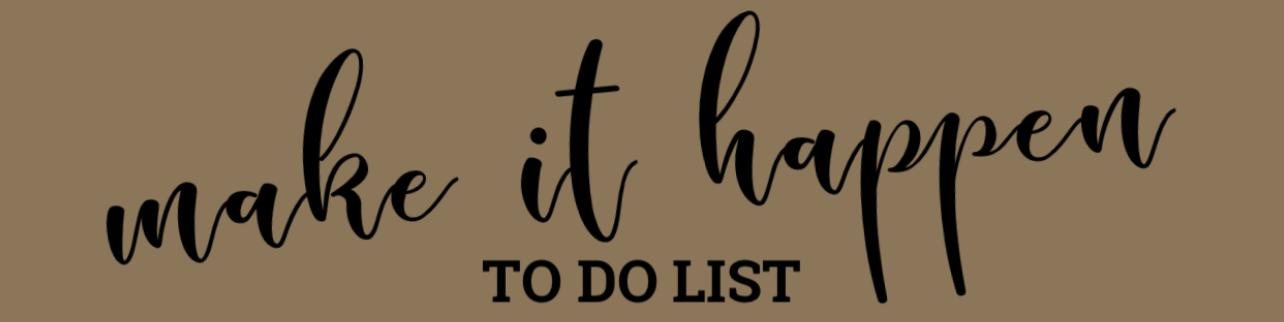
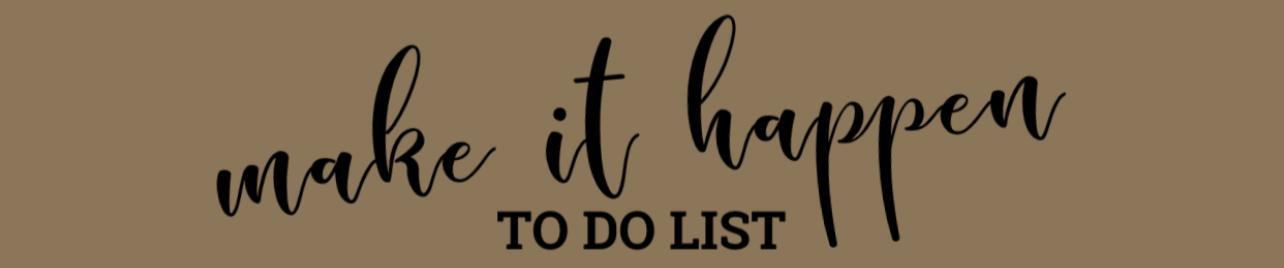
added search button
added search button, input and some style

Changed region(s): [[0.3738, 0.0299, 0.9346, 0.9552], [0.0623, 0.1194, 0.4984, 0.8358]]

diff --git a/src/main.js b/src/main.js
@@ -14,9 +14,6 @@ async function loadTasks() {
   // first - get the data from the json.bin
   appData = await getPersistent(MY_BIN_ID);
 
-  console.log("data:");
-  console.log(appData);
-
   if (!appData.idCounter) {
     appData.idCounter = 0;
   }
@@ -24,7 +21,6 @@ async function loadTasks() {
   let taskDiv = document.getElementById("tasks-container");
   let taskDoneDiv = document.getElementById("tasks-done-container");
   // second - create the todo list
-  console.log(appData["my-todo"]);
   appData["my-todo"].forEach(async (taskObject) => {
     let div = await createTaskDomElements(taskObject, false);
     taskDiv.appendChild(div);
@@ -47,7 +43,6 @@ async function loadTasks() {
       imageEle.style.position = "absolute";
       imageEle.style.zIndex = 1000;
       imageEle.style.top = appData.dragItems[imageId].top;
-      console.log(appData.dragItems[imageId].top);
       imageEle.style.left = appData.dragItems[imageId].left;
     }
   }
@@ -82,7 +77,6 @@ function startDrag(event) {
 
   // drop the image, remove unneeded handlers
   dragImage.onmouseup = function () {
-    console.log("hi");
     document.removeEventListener("mousemove", onMouseMove);
     dragImage.onmouseup = null;
 
@@ -92,7 +86,6 @@ function startDrag(event) {
       left: dragImage.style.left,
       top: dragImage.style.top,
     };
-    console.log(appData.dragItems[dragImage.id]);
     setPersistent(MY_BIN_ID, appData);
   };
 }
@@ -354,10 +347,7 @@ function getEditTaskButton(todoDiv, textDiv) {
     } else {
       alert("New task is too short!");
     }
-    console.log(e.target.parentNode);
-    console.log(e.target.parentNode.getElementsByTagName("input"));
     let taskId = e.target.parentNode.getElementsByTagName("input")[0].id;
-    console.log("taskId:" + taskId);
     let taskObject = appData["my-todo"].find((task) => task.id == taskId);
     if (taskObject) {
       taskObject.text = newText;
@@ -371,7 +361,6 @@ function getEditTaskButton(todoDiv, textDiv) {
 
 //function for counter
 function counterUpdated() {
-  console.log(appData.done);
   if (appData["my-todo"].length >= 1) {
     document.getElementById("empty-list-span").style.display = "none";
   } else if (appData["my-todo"].length === 0) {
@@ -529,27 +518,59 @@ document.getElementById("hide-list").addEventListener("click", (e) => {
   }
 });
 
-//carousel settings
-let transX = 0;
-const increment = 400;
-let buttonRight = document.getElementById("right");
-let buttonLeft = document.getElementById("left");
-let imgs = document.getElementById("images");
-imgs.style.transform = "translateX(-25px)";
-let allImg = document.querySelectorAll("img");
+//search button setting
+document.addEventListener("click", searchTask);
+//function to search text in a task
+function searchTask(event) {
+  const target = event.target;
+  if (target.id !== "search-button") return;
 
-buttonRight.addEventListener("click", (e) => {
-  transX = transX - increment;
-  if (!(transX >= -1200)) {
-    transX = -1200;
-  }
-  imgs.style.transform = "translateX(" + transX + "px)";
-});
+  const searchInput = document.querySelector("#search-input");
+  highlight(searchInput.value.toLowerCase());
 
-buttonLeft.addEventListener("click", (e) => {
-  transX = transX + increment;
-  if (!(transX <= -25)) {
-    transX = -25;
+  searchInput.value = "";
+  searchInput.focus();
+}
+
+// //function to highlight the word search
+function highlight(text) {
+  const taskTexts = document.querySelectorAll(".todo-text");
+
+  for (let taskText of taskTexts) {
+    const taskInnerHTML = taskText.textContent;
+
+    if (text === "") {
+      taskText.innerHTML = taskText.textContent;
+      continue;
+    }
+
+    //get all the cases of a search text in a task
+    let textIndexes = [];
+    let index = taskInnerHTML.indexOf(text, 0);
+
+    while (index >= 0) {
+      textIndexes.push(index);
+      index = taskInnerHTML.indexOf(text, index + 1);
+    }
+
+    const numberOfCases = textIndexes.length;
+
+    if (numberOfCases === 0) {
+      taskText.innerHTML = taskText.textContent;
+      continue;
+    }
+
+    let newInnerHTML = `${taskInnerHTML.substring(0, textIndexes[0])}`;
+
+    for (let i = 0; i < numberOfCases; i++) {
+      newInnerHTML =
+        newInnerHTML +
+        `<span class='highlight'>${text}</span>${taskInnerHTML.substring(
+          textIndexes[i] + text.length,
+          textIndexes[i + 1]
+        )}`;
+    }
+
+    taskText.innerHTML = newInnerHTML;
   }
-  imgs.style.transform = "translateX(" + transX + "px)";
-});
+}

diff --git a/src/index.html b/src/index.html
@@ -31,12 +31,21 @@
       </select>
       <button id="add-button" class="formStyle" onclick="addTask()">Add</button>
     </form>
-    <!-- <input type="text" id="search-input" placeholder="Search a task..." />
-    <button id="search-button">search</button> -->
-    <div id="buttons">
-      <button id="sort-button" class="buttons">Sort By:</button>
-      <button id="dark-mode" class="buttons">Dark Mode</button>
-    </div>
+    <section class="second-part">
+      <div class="serach">
+        <input
+          type="text"
+          id="search-input"
+          class="search-input"
+          placeholder="Search a task..."
+        />
+        <button id="search-button" class="buttons">Search 🔎</button>
+      </div>
+      <div id="buttons">
+        <button id="sort-button" class="buttons">Sort By:</button>
+        <button id="dark-mode" class="buttons">Dark Mode</button>
+      </div>
+    </section>
     <div class="to-do-header">
       <section class="header-uncompleted">
         <h3><span id="counter"></span> Uncompleted :</h3>
@@ -53,7 +62,7 @@
             >Stop being lazy! Finish a task 😎😎</span
           >
         </div>
-        <button id="clear" class="buttons">Clear All</button>
+        <button id="clear" class="buttons">Clear All ⌦</button>
       </section>
     </div>
     <label for="notes" class="labelComments"> Notes :</label><br /><br />
@@ -65,7 +74,7 @@
       placeholder="Anything you wanna remember?"
       onmouseout="saveNote()"
     ></textarea>
-    <!-- <nav class="floating-menu">
+    <nav class="floating-menu">
       <h3>Get in touch!</h3>
       <link
         rel="stylesheet"
@@ -91,14 +100,14 @@
         target="_blank"
         class="fa fa-instagram"
       ></a>
-    </nav> -->
+    </nav>
     <p class="main-paragraph">★ Style your list with the items below ★</p>
     <p class="second-paragraph">
       just drag and drop them whenever you want,<br />
       You can return them to the box whenever you want!
     </p>
     <div class="carousel">
-      <button class="button" id="right">⇨</button>
+      <!-- <button class="button" id="right">⇨</button> -->
       <div id="images" class="imgs">
         <ul class="img-list">
           <li>
@@ -194,7 +203,7 @@
           </li>
         </ul>
       </div>
-      <button class="button" id="left">⇦</button>
+      <!-- <button class="button" id="left">⇦</button> -->
     </div>
     <script src="./main.js"></script>
   </body>

diff --git a/src/darkmode.css b/src/darkmode.css
@@ -28,7 +28,7 @@ h3 {
   padding-right: 50px;
   padding-bottom: 20px;
   font-size: 25px;
-  background-color: rgb(19, 42, 19);
+  background-color: rgb(98, 98, 98);
 }
 .header-completed {
   border: 5px solid;
@@ -38,7 +38,7 @@ h3 {
   padding-right: 50px;
   padding-bottom: 20px;
   font-size: 25px;
-  background-color: rgb(19, 42, 19);
+  background-color: rgb(98, 98, 98);
 }
 .todo-priority {
   padding-right: 2px;
@@ -114,7 +114,6 @@ form {
   display: flex;
   flex-direction: column;
   align-items: center;
-  margin-left: 500px;
 }
 
 .buttons {
@@ -172,7 +171,7 @@ form {
   background-size: cover;
 }
 #hide-list:hover {
-  color: rgb(83, 83, 83);
+  color: black;
   background-color: white;
 }
 .checkbox {
@@ -263,7 +262,7 @@ form {
   padding: 30px 0px;
   border: 3px solid black;
   border-radius: 20px;
-  background-color: rgb(151, 150, 150);
+  background-color: rgb(19, 42, 19);
 }
 .img-option {
   width: 130px;
@@ -273,4 +272,37 @@ form {
 .img7 {
   border-radius: 50%;
   height: 40px;
+}
+.search-input {
+  height: 50px;
+  width: 100%;
+  font-size: 20px;
+  border-radius: 10px;
+}
+.search {
+  margin-right: 400px;
+  margin-top: 30px;
+}
+.second-part {
+  display: flex;
+  flex-direction: row;
+  justify-content: center;
+}
+.search-input {
+  height: 50px;
+  width: 100%;
+  font-size: 20px;
+  border-radius: 10px;
+}
+.search {
+  margin-right: 400px;
+  margin-top: 30px;
+}
+.second-part {
+  display: flex;
+  flex-direction: row;
+  justify-content: center;
+}
+.highlight {
+  background-color: white;
 }

diff --git a/src/style.css b/src/style.css
@@ -7,7 +7,6 @@
   background-image: url(./header.jpeg);
   background-repeat: no-repeat;
   background-size: cover;
-  width: 1300px;
   height: 350px;
 }
 h3 {
@@ -114,7 +113,6 @@ form {
   display: flex;
   flex-direction: column;
   align-items: center;
-  margin-left: 500px;
 }
 .buttons {
   width: 170px;
@@ -171,7 +169,7 @@ form {
   background-size: cover;
 }
 #hide-list:hover {
-  color: black;
+  color: rgb(85, 38, 38);
   background-color: white;
 }
 .checkbox {
@@ -209,7 +207,7 @@ form {
 
 .floating-menu {
   font-family: monospace;
-  background: rgb(80, 44, 44);
+  background: rgb(209, 189, 151);
   padding: 5px;
   padding-right: 13px;
   width: 80px;
@@ -291,4 +289,26 @@ form {
   background-color: #3b5998;
   height: 300px;
   width: 300px;
+}
+.search-input {
+  height: 50px;
+  width: 100%;
+  font-size: 20px;
+  border-radius: 10px;
+}
+.serach {
+  margin-right: 400px;
+  margin-top: 30px;
+}
+.second-part {
+  display: flex;
+  flex-direction: row;
+  justify-content: center;
+}
+.highlight {
+  background-color: rgb(100, 92, 92);
+}
+#search-button {
+  transition-duration: 3s;
+  cursor: grab;
 }

diff --git a/src/utils.js b/src/utils.js
@@ -12,7 +12,6 @@ async function getPersistent(key) {
   //console.log(response);
   //console.log(response.body);
   const result = await response.json();
-  console.log(result.record);
   return result.record;
 }
 
@@ -29,6 +28,3 @@ async function setPersistent(key, tasks) {
   });
   return true;
 }
-// 60183cc6abdf9c556796446d
-//6015914f13b20d48e8bf1b78
-//https://api.jsonbin.io/b/60183cc6abdf9c556796446d
